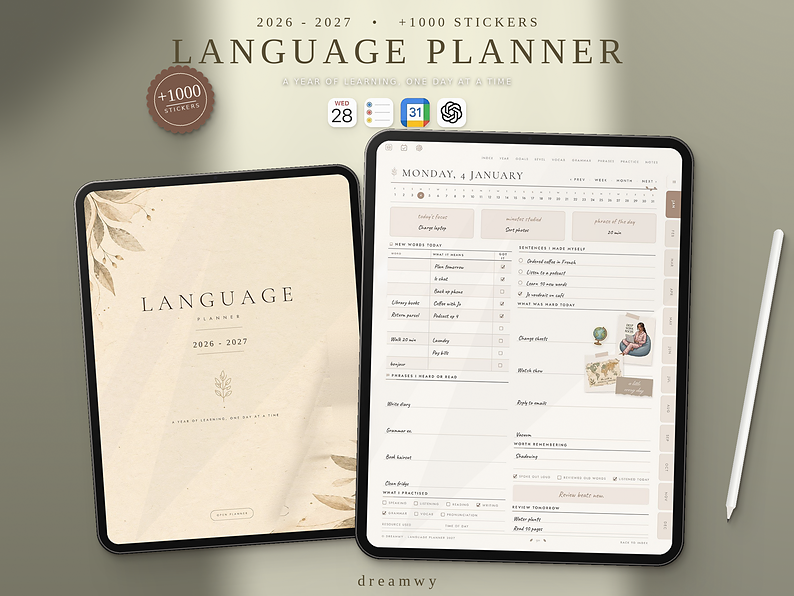
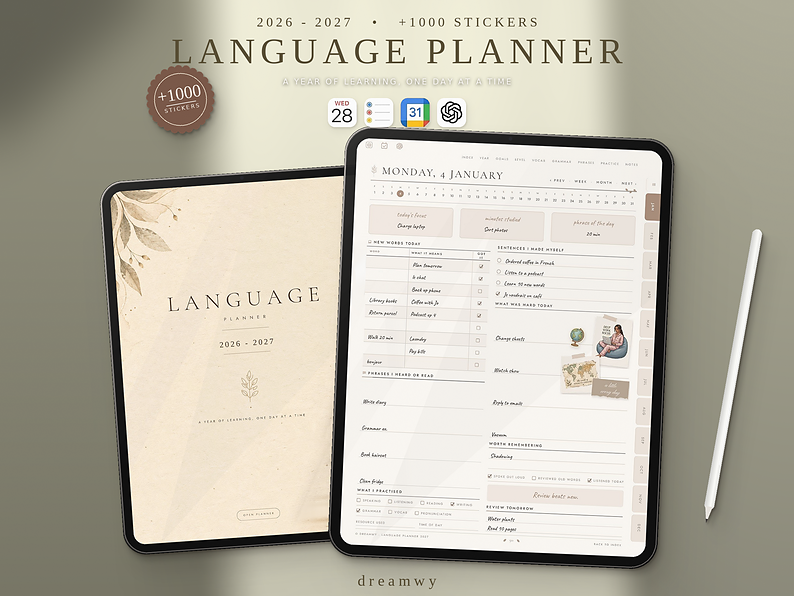
Language mockup: page tablet overlaps more of the cover; cleaner stylus removal on the cover
Claude-Session: https://claude.ai/code/session_015ZGVvYxuW9E1f2kNKHXQzt

diff --git a/mockup/make_language_mockup.py b/mockup/make_language_mockup.py
@@ -82,11 +82,19 @@ _clean = np.asarray(cover.crop((100, 610, 330, 730)).convert("L"), float)       
 GRAIN = _clean - np.asarray(Image.fromarray(_clean.astype("uint8")).filter(ImageFilter.GaussianBlur(3)), float)
 
 # 1. stylus off (patch-based inpainting keeps the watercolour leaves textured)
-cmask = pencil_mask(src.size, COVER_BOX, hl=27, hr=21)
+cmask = pencil_mask(src.size, COVER_BOX, hl=44, hr=30)
 if cv2 is not None:
     m8 = cv2.dilate(cmask.astype("uint8") * 255, np.ones((3, 3), np.uint8))
     dst = np.zeros((cover.height, cover.width, 3), np.uint8)
-    cv2.xphoto.inpaint(cv2.cvtColor(np.asarray(cover), cv2.COLOR_RGB2BGR), 255 - m8, dst, cv2.xphoto.INPAINT_SHIFTMAP)
+    # hide the cover's text blocks from the patch search first (otherwise bits of "OPEN PLANNER" get copied into the fill), paste them back after
+    TXT = [(320, 1024, 480, 1072), (150, 330, 650, 780)]            # button; title block (cover-crop coordinates)
+    guard = np.zeros((cover.height, cover.width), np.uint8)
+    for x0_, y0_, x1_, y1_ in TXT: guard[y0_:y1_, x0_:x1_] = 255
+    src_bgr = cv2.cvtColor(np.asarray(cover), cv2.COLOR_RGB2BGR)
+    clean_bgr = cv2.inpaint(src_bgr, guard, 9, cv2.INPAINT_TELEA)
+    cv2.xphoto.inpaint(clean_bgr, 255 - m8, dst, cv2.xphoto.INPAINT_SHIFTMAP)
+    keep = (guard > 0) & (m8 == 0)
+    dst[keep] = src_bgr[keep]
     out = cv2.cvtColor(dst, cv2.COLOR_BGR2RGB).astype(float)
     base = np.asarray(cover, float)
     # The patch fill has the right grain but its overall tone can drift. Keep its fine detail and take the broad tone from a
@@ -315,8 +323,8 @@ def place(dev, cx, cy):
     canvas.alpha_composite(dev, (x, y))
 
 
-place(tablet(cover, 1130, 4), 690, 1085)       # cover on the left, behind
-place(tablet(daily, 1300, -1.5), 1585, 1050)     # daily page on the right, in front
+place(tablet(cover, 1130, 4), 770, 1085)       # cover on the left, behind (its right edge slides under the page tablet)
+place(tablet(daily, 1300, -2.5), 1515, 1050)     # daily page on the right, in front
 
 # pencil lying on the cover
 pen = Image.new("RGBA", (900, 30), (0, 0, 0, 0))
@@ -334,8 +342,8 @@ pd.polygon([(850, 4), (900, 15), (850, 26)], fill=(232, 228, 222, 255))
 pd.polygon([(888, 12), (900, 15), (888, 18)], fill=(60, 56, 54, 255))
 pd.rectangle((120, 5, 720, 7), fill=(255, 255, 255, 255))
 pen = pen.rotate(-100, expand=True, resample=Image.BICUBIC)
-drop(pen.split()[3], 2185, 690, [(36, 52, 22, .30), (14, 20, 7, .45), (4, 6, 3, .6)])
-canvas.alpha_composite(pen, (2185, 690))
+drop(pen.split()[3], 2120, 690, [(36, 52, 22, .30), (14, 20, 7, .45), (4, 6, 3, .6)])
+canvas.alpha_composite(pen, (2120, 690))
 
 
 # "+1000 STICKERS" seal
